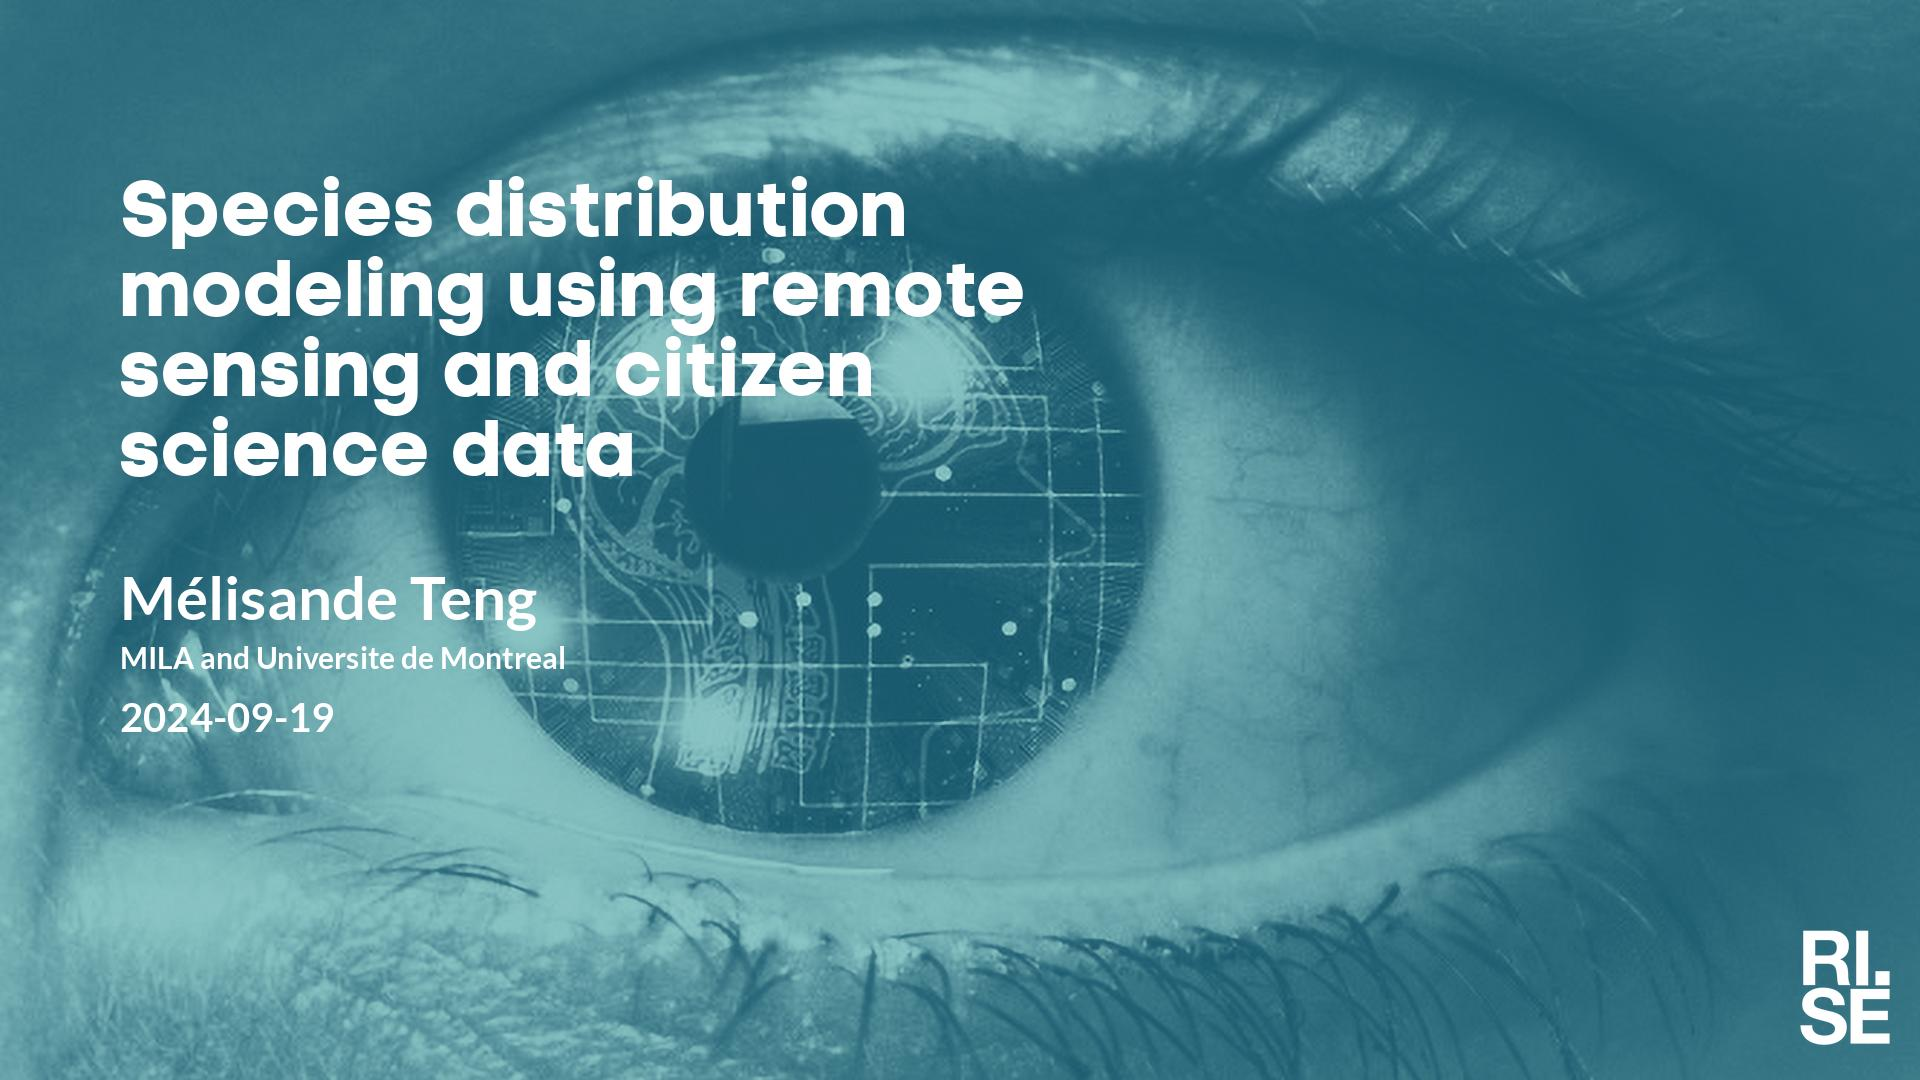
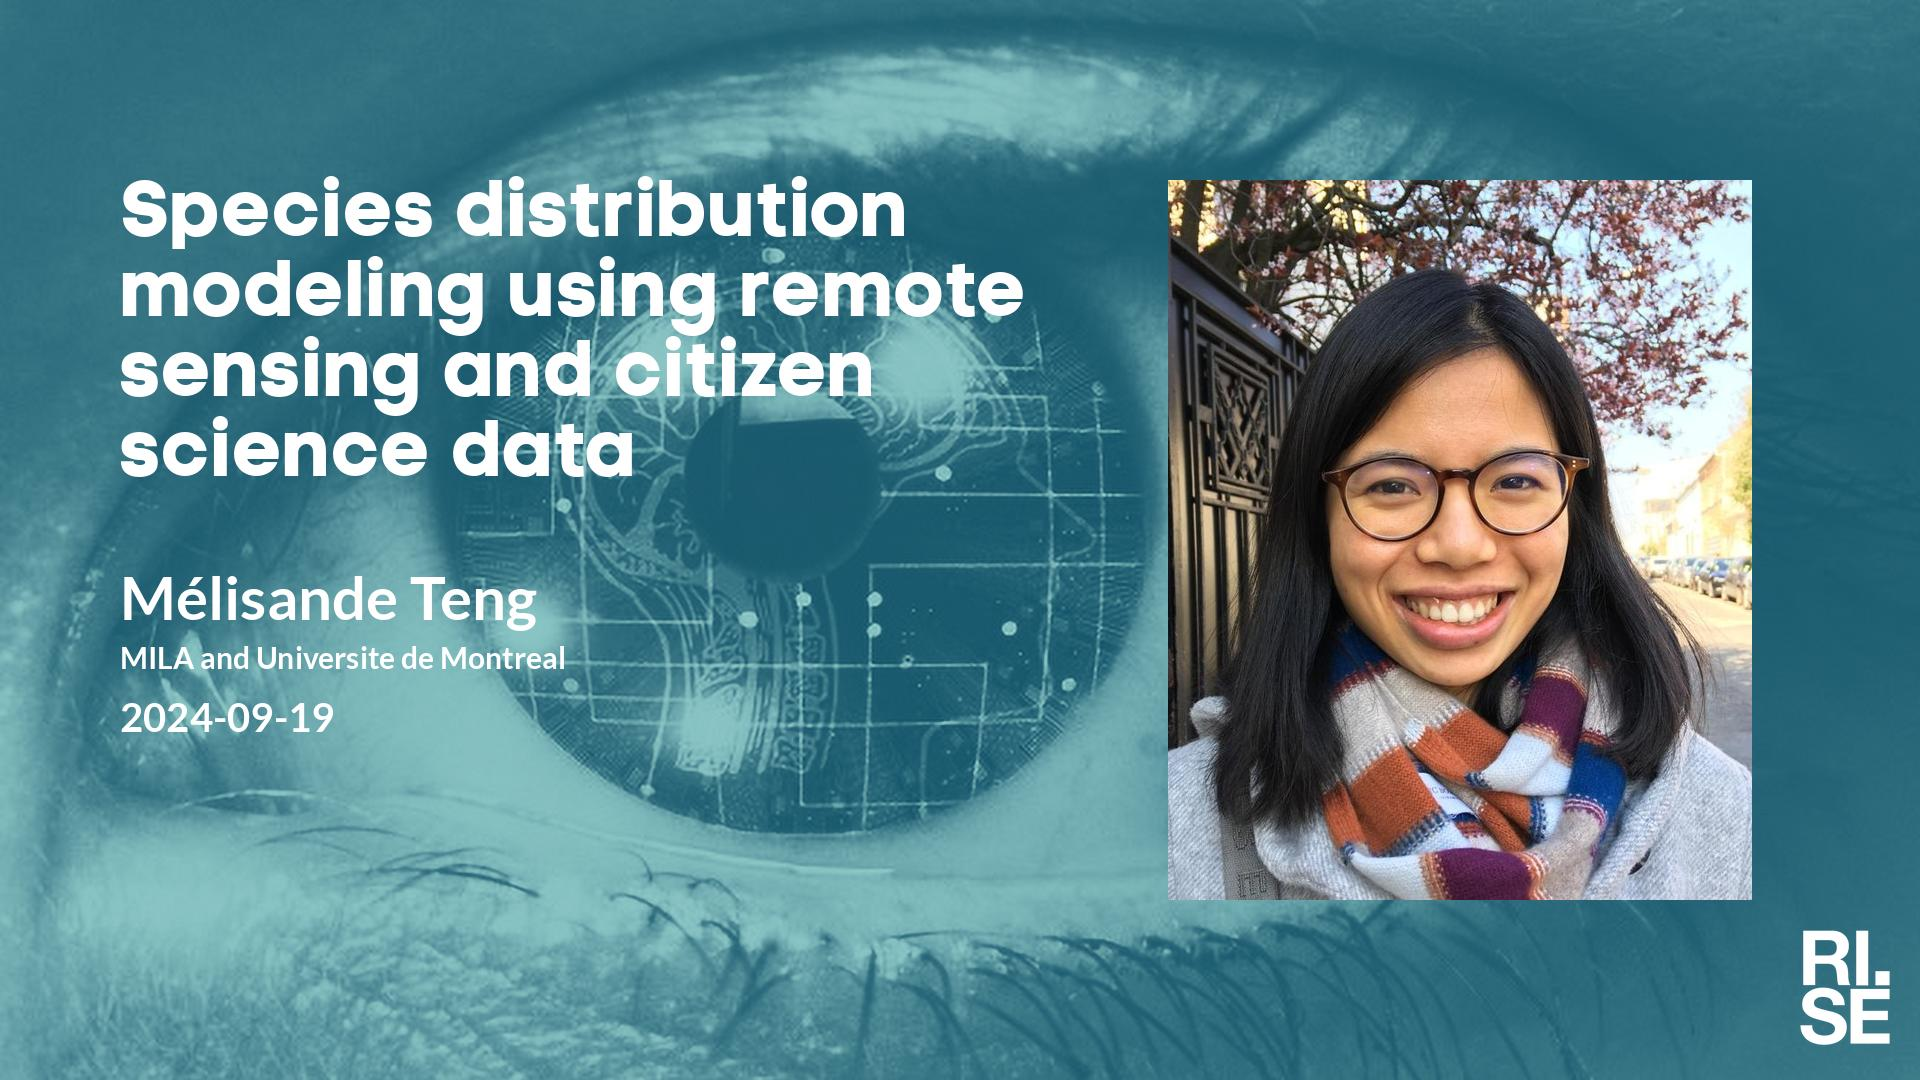
Updated plan on web site.

Changed region(s): [[0.5938, 0.1528, 0.9375, 0.8556]]

diff --git a/lm/index.md b/lm/index.md
@@ -11,7 +11,7 @@ table {border-collapse: collapse;}
 | ---- | ----------------------------------------- | ----- | ----- | ----- | ----- | -------------- |
 |  2024-09-05  |  [Smita Chakraborty, RISE](2024-09-05.md)  |  [photo](photo-smita-chakraborty.jpg)  |  [social media ](social-media-smita-chakraborty.jpg)  |  [meeting backdrop ](meeting-backdrop-smita-chakraborty.jpg)  |  [youtube thumbnail ](youtube-thumbnail-smita-chakraborty.jpg)  |  STABP  |
 | <span style="color:red"> 2024-09-12 </span> | <span style="color:red"> CANCELLED </span> | <span style="color:red">  </span> | <span style="color:red">  </span> | <span style="color:red">  </span> | <span style="color:red">  </span> | <span style="color:red"> CANCELLED </span> |
-|  2024-09-19  |  [Mélisande Teng, MILA and Universite de Montreal](2024-09-19.md)  |    |  [social media ](social-media-melisande-teng.jpg)  |  [meeting backdrop ](meeting-backdrop-melisande-teng.jpg)  |  [youtube thumbnail ](youtube-thumbnail-melisande-teng.jpg)  |  STAB~~P~~  |
+|  2024-09-19  |  [Mélisande Teng, MILA and Universite de Montreal](2024-09-19.md)  |  [photo](photo-melisande-teng.jpg)  |  [social media ](social-media-melisande-teng.jpg)  |  [meeting backdrop ](meeting-backdrop-melisande-teng.jpg)  |  [youtube thumbnail ](youtube-thumbnail-melisande-teng.jpg)  |  STABP  |
 |  2024-09-26  |  [Charlie Fieseler, University of Vienna](2024-09-26.md)  |    |  [social media ](social-media-charlie-fieseler.jpg)  |  [meeting backdrop ](meeting-backdrop-charlie-fieseler.jpg)  |  [youtube thumbnail ](youtube-thumbnail-charlie-fieseler.jpg)  |  S~~TABP~~  |
 |  2024-10-03  |  [Jakob Ambsdorf, University of Copenhagen](2024-10-03.md)  |    |  [social media ](social-media-jakob-ambsdorf.jpg)  |  [meeting backdrop ](meeting-backdrop-jakob-ambsdorf.jpg)  |  [youtube thumbnail ](youtube-thumbnail-jakob-ambsdorf.jpg)  |  S~~TABP~~  |
 | <span style="color:purple"> 2024-10-10 </span> | <span style="color:purple"> *Up for grabs!!!* </span> | <span style="color:purple">  </span> | <span style="color:purple">  </span> | <span style="color:purple">  </span> | <span style="color:purple">  </span> | <span style="color:purple"> ~~STABP~~ </span> |
